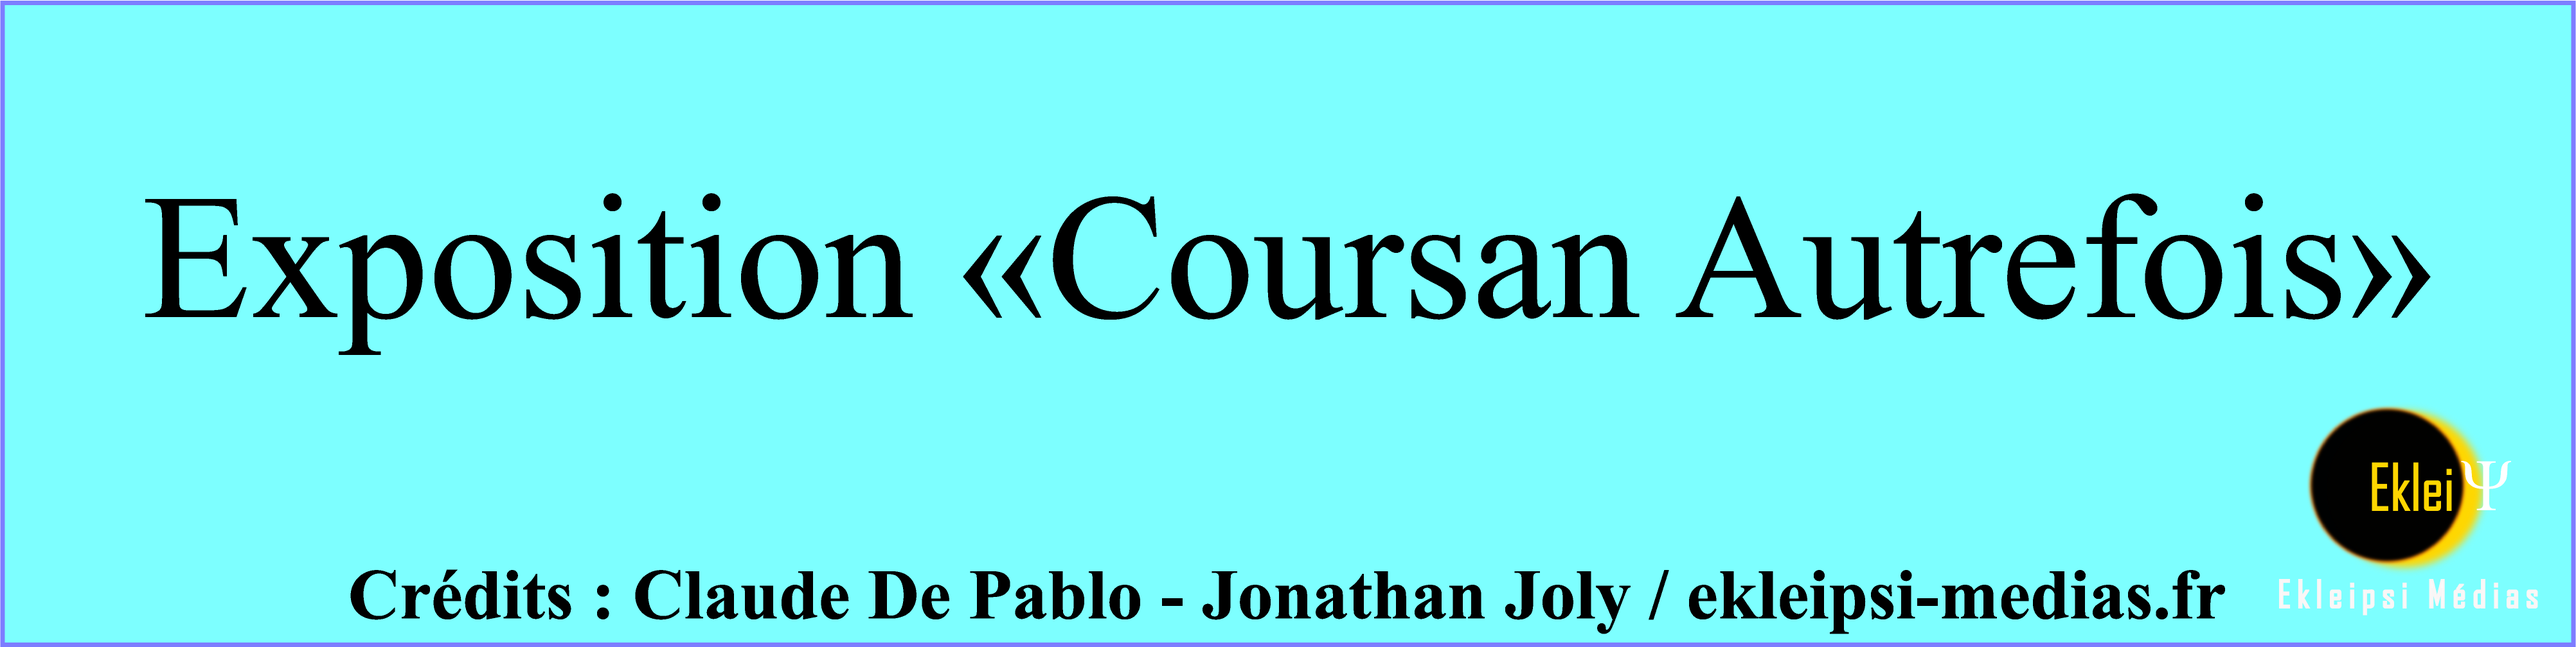
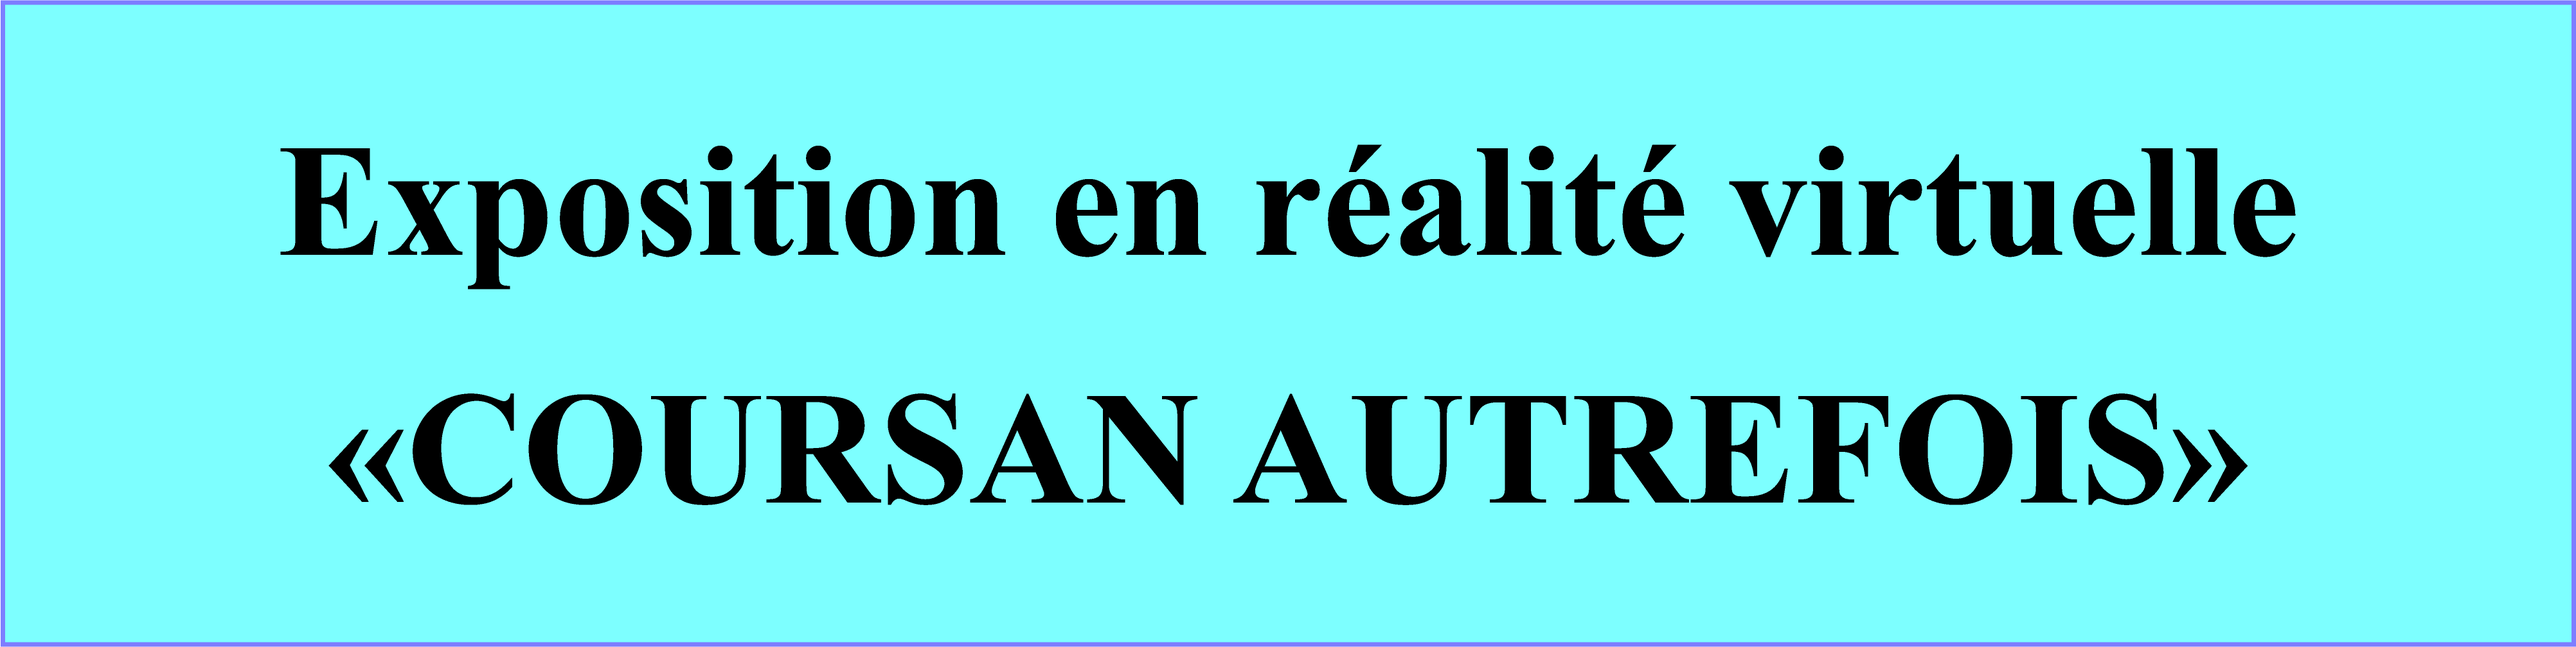
update
ajout des mentions légale et retravaille de l'entree de l'exposition

Changed region(s): [[0.0, 0.0, 1.0, 1.0], [0.0624, 0.2153, 0.9668, 0.5536], [0.2495, 0.2153, 0.2807, 0.246]]

diff --git a/indexvr.html b/indexvr.html
@@ -42,7 +42,6 @@
             <!---------------------PHOTOS ENTREE EXPO-------------------->
             <!----------------------------------------------------------->
             <img id="panneau-entree" src="assets/images/entree_expo/titre.png">
-            <img id="claude" src="assets/images/entree_expo/claude.png">
             <img id="texte_accueil" src="assets/images/entree_expo/texte.png">
             <img id="mentions" src="assets/textes/mentions-legales.png">
 
@@ -433,8 +432,6 @@
                </a-box>
                <!---------------------Partie Claude-------------------->
                <a-entity>
-                    <a-image src="#claude" position="-1.1 2.6 0.0511"
-                         width="0.78" height="1.39" scale="0.5 0.5 0.5"></a-image>
                     <a-image src="#texte_accueil" position="0 1.4 0.0511"
                          width="1.49" height="1.08" scale="2 2 2"></a-image>
                </a-entity>
@@ -465,7 +462,7 @@
                <!---------------------PArtie mentions-------------------->
                <a-entity>
                     <a-image src="#mentions" position="0 1.63 0.0511"
-                         width="2.4" height="3.36"></a-image>
+                         width="0.55" height="0.76" scale="3.8 3.8 3.8"></a-image>
                </a-entity>
                <!---------------------pied-------------------->
                <a-box src="#wood" position="0 0 0"
@@ -1839,6 +1836,10 @@
 
           <!---------------------TELEPORTATION -------------------->
           <a-entity>
+               <!---------------- entree partie gauche ----------------->
+               <a-image src="#footstep" class="teleport" position="-3.5 0.011 24" rotation="-90 0 0" teleport></a-image>
+               <!---------------- entree partie droite ----------------->
+               <a-image src="#footstep" class="teleport" position="3.5 0.011 24" rotation="-90 0 0" teleport></a-image>
                <!---------------- 1 ----------------->
                <a-image src="#footstep" class="teleport" position="0 0.011 21" rotation="-90 0 0" teleport></a-image>
                <!---------------- 2 ----------------->
